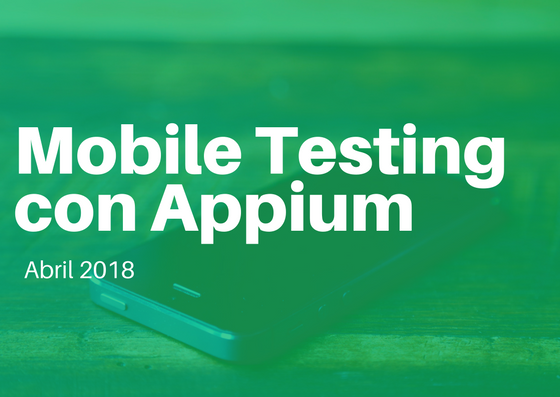
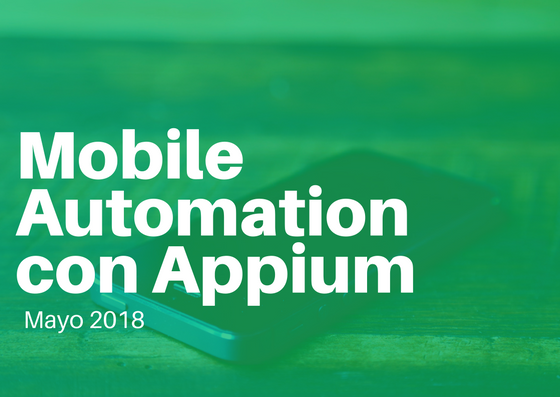
Appium course added

Changed region(s): [[0.0, 0.3023, 0.9107, 0.7859], [0.0304, 0.6348, 0.2429, 0.7557], [0.0304, 0.7859, 0.2732, 0.8463]]

diff --git a/MobileTesting.html b/MobileTesting.html
@@ -4,10 +4,10 @@
 <head>
     <meta charset="utf-8">
     <meta name="viewport" content="width=device-width, initial-scale=1">
-    <title>Testing en Esp - Introduccion Testing Automatizado</title>
-    <meta name="description" content="Introduccion Testing Automatizado con WebDriver">
+    <title>Testing en Esp - Mobile Automation con Appium</title>
+    <meta name="description" content="Mobile Automation con Appium">
     <meta name="keywords"
-          content="Testing, Automation, WebDriver, Selenium, Training, Cursos, tester, software, josepablosarco">
+          content="Testing, Automation, WebDriver, Selenium, Training, Cursos, tester, software, josepablosarco, mobile, appium">
 
     <link rel="stylesheet" type="text/css"
           href="https://fonts.googleapis.com/css?family=Open+Sans|Candal|Alegreya+Sans">
@@ -36,7 +36,6 @@
                 <li><a href="#feature">Acerca del Curso</a></li>
                 <li><a href="#contenido">Contenido</a></li>
                 <li><a href="#cuentaRegresiva">Proximo Encuentro</a></li>
-                <li><a href="#testimonios">Testimonios</a></li>
             </ul>
         </div>
     </div>
@@ -49,7 +48,7 @@
             <div class="row">
                 <div class="banner-text text-center">
                     <div class="text-border">
-                        <h2 class="text-dec">Introducción al Testing Automatizado Con WebDriver</h2>
+                        <h2 class="text-dec">Mobile Automation con Appium</h2>
                     </div>
                 </div>
                 <div class="columns" id="planes">
@@ -95,8 +94,11 @@
         <div class="row">
             <div class="header-section text-center">
                 <h2>Acerca del Curso</h2>
-                <p>Vas a poder aprender los distintos aspectos del testing automatizado.Conceptos teóricos necesarios para entender como y porque aplicarlo.<br>
-                También vas a poder conocer como aplicar Selenium como herramienta de Testing automatizado y realizar distintos ejercicios prácticos para aprender a interactuar con una aplicación de la manera mas eficiente. Por ultimo nos centraremos en WebDriver para poder aplicar lo aprendido  y poder realizar nuestros primeros tests en Java y Python!</p>
+                <p>En este curso vas a aprender a utilizar Appium para pruebas automatizadas sobre dispositivos mobiles. 
+				<br>Desde aprender a inspeccionar e interactuar con la aplicación, 
+				hasta escribir tu primer script de Appium para ejecútarlo localmente y en Sauce Labs. 
+				El curso incluye la creacion de un framework basico con Appium y entender cómo funciona Appium para hacer que las pruebas multiplataforma sean manejables y fáciles de llevar a cabo. 
+				Todo el curso es en Java.</p>
                 <hr class="bottom-line">
             </div>
             <div class="feature-info">
@@ -104,7 +106,7 @@
                     <div class="col-md-4" style="width:25%">
                         <div class="heading pull-right">
                             <h4>Destinatarios</h4>
-                            <p>Cualquier persona inetresada en el mundo IT. No es necesario saber programar o tener conocimientos previos en programación.</p>
+                            <p>Cualquier persona con conocimientos basicos en testing automatizado y programacion en Java(<a href="introduccionTestingAutomatizado.html">Introduccion testing automatizado con WebDriver</a>).</p>
                         </div>
                         <div class="fea-img pull-left">
                             <i class="fa fa-users"></i>
@@ -127,7 +129,7 @@
                     <div class="col-md-4" style="width:25%">
                         <div class="heading pull-right">
                             <h4>Codigo</h4>
-                            <p>Al finalizar el curso vas poder contar con todo el codigo Java y Python presentado durante el mismo.</p>
+                            <p>Al finalizar el curso vas poder contar con todo el codigo Java presentado durante el mismo.</p>
                         </div>
                         <div class="fea-img pull-left">
                             <i class="fa fa-github"></i>
@@ -175,13 +177,12 @@
                 <div id="collapseListGroup1" class="panel-collapse collapse" role="tabpanel"
                      aria-labelledby="collapseListGroupHeading1">
                     <ul class="list-group">
-                        <li class="list-group-item">¿Por qué testing Automatizado? ¿Por que no?</li>
-                        <li class="list-group-item">¿Que es testing Automatizado?</li>
-                        <li class="list-group-item">Testing Automatizado vs Testing Manual</li>
-                        <li class="list-group-item">Pirámide de Pruebas</li>
-                        <li class="list-group-item">¿Cómo seleccionar los tests a automatizar?</li>
-                        <li class="list-group-item">¿Cómo evitar el fracaso del proyecto de pruebas automatizadas?</li>
-                        <li class="list-group-item">Introducción al mundo Selenium</li>
+                        <li class="list-group-item">Conceptos Basicos sobre Appium</li>
+                        <li class="list-group-item">Tipos de pruebas en Appium</li>
+						<li class="list-group-item">Componentes de un test en Appium</li>
+						<li class="list-group-item">Appium Inspector</li>
+						<li class="list-group-item">Interacciones en Appium</li>
+                        <li class="list-group-item">Nuestro Primer Script con Appium</li>
                     </ul>
                 </div>
                 <div class="panel-heading" role="tab" id="collapseListGroupHeading2">
@@ -198,12 +199,13 @@
                 <div id="collapseListGroup2" class="panel-collapse collapse" role="tabpanel"
                      aria-labelledby="collapseListGroupHeading1">
                     <ul class="list-group">
-                        <li class="list-group-item">Conceptos generales</li>
-                        <li class="list-group-item">Test vs Test Suite</li>
-                        <li class="list-group-item">Teoría de Locators</li>
-                        <li class="list-group-item">Práctica de Locators</li>
-                        <li class="list-group-item">Frameworks de Automatización</li>
-                        <li class="list-group-item">Introducción Page Object</li>
+                        <li class="list-group-item">Estrategias para pruebas con Appium</li>
+                        <li class="list-group-item">Mejores Practicas con Appium</li>
+						<li class="list-group-item">Locators Avanzados</li>
+                        <li class="list-group-item">Interacciones avanzadas</li>
+                        <li class="list-group-item">Evitando tests inestables</li>
+                        <li class="list-group-item">Page Objects en Appium</li>
+                        <li class="list-group-item">Corriendo Pruebas en SauceLabs</li>
                     </ul>
                 </div>
                 <div class="panel-heading" role="tab" id="collapseListGroupHeading3">
@@ -308,50 +310,6 @@
     </div>
 </section>
 <!--/ work-shop-->
-<!--Faculity member-->
-<section id="testimonios" class="section-padding">
-    <div class="container">
-        <div class="row">
-            <div class="header-section text-center">
-                <h2>Testimonios</h2>
-                <p>A continuación algunas recomendaciones por parte de los que ya participaron.</p>
-                <hr class="bottom-line">
-            </div>
-            <div class="col-lg-4 col-md-4 col-sm-4">
-                <div class="pm-staff-profile-container">
-                    <div class="pm-staff-profile-details text-center">
-                        <p class="pm-staff-profile-name">German F.</p>
-                        <p class="pm-staff-profile-title">QA Manual</p>
-                        <i class="fa fa-quote-left fa-3x fa-pull-left" aria-hidden="true"></i>
-                        <p class="pm-staff-profile-bio">El curso me impresionó en múltiples niveles. Se lo recomendaré a todos los que conozco. Aprendi mucho durante este curso.</p>
-                    </div>
-                </div>
-            </div>
-            <div class="col-lg-4 col-md-4 col-sm-4">
-                <div class="pm-staff-profile-container">
-                    <div class="pm-staff-profile-details text-center">
-                        <p class="pm-staff-profile-name">Leonardo S.</p>
-                        <p class="pm-staff-profile-title">QA Lead</p>
-                        <i class="fa fa-quote-left fa-3x fa-pull-left" aria-hidden="true"></i>
-                        <p class="pm-staff-profile-bio">Me encantó el curso, es justo lo que estaba buscando.</p>
-                    </div>
-                </div>
-            </div>
-            <div class="col-lg-4 col-md-4 col-sm-4">
-                <div class="pm-staff-profile-container">
-                    <div class="pm-staff-profile-details text-center">
-                        <p class="pm-staff-profile-name">Matias R.</p>
-                        <p class="pm-staff-profile-title">QA Manual</p>
-
-                        <i class="fa fa-quote-left fa-3x fa-pull-left" aria-hidden="true"></i>
-                        <p class="pm-staff-profile-bio">Durante el encuentro OnLine pude obtener respuestas a dudas que tenia y el formato del curso me parecio muy interesante.</p>
-                    </div>
-                </div>
-            </div>
-        </div>
-    </div>
-</section>
-<!--/ Faculity member-->
 
 <!--Contact-->
 <section id="contact" class="section-padding">
@@ -365,7 +323,7 @@
             </div>
             <div id="sendmessage">Your message has been sent. Thank you!</div>
             <div id="errormessage"></div>
-            <form method="post" action="https://formspree.io/testingenesp+intro@gmail.com" role="form" class="contactForm">
+            <form method="post" action="https://formspree.io/testingenesp+appium@gmail.com" role="form" class="contactForm">
                 <div class="col-md-6 col-sm-6 col-xs-12 left">
                     <div class="form-group">
                         <input type="text" name="name" class="form-control form" id="name" placeholder="Nombre"

diff --git a/index.html b/index.html
@@ -110,8 +110,8 @@
           <figure class="imghvr-fold-up">
             <img src="img/WebDriver101.png" class="img-responsive">
             <figcaption>
-              <h3>Mi Primer Framework</h3>
-              <p>Lorem ipsum dolor sit amet, consectetur adipisicing elit. Magnam atque, nostrum veniam consequatur libero fugiat, similique quis.</p>
+              <h3>WebDriver 101</h3>
+              <p>En este curso nos enfocamos puramente en Selenium WebDriver.</p>
             </figcaption>
             <a href="#"></a>
           </figure>
@@ -120,8 +120,12 @@
           <figure class="imghvr-fold-up">
             <img src="img/MobileTesting.png" class="img-responsive">
             <figcaption>
-              <h3>Mobile Testing Con Appium</h3>
-              <p>Lorem ipsum dolor sit amet, consectetur adipisicing elit. Magnam atque, nostrum veniam consequatur libero fugiat, similique quis.</p>
+              <h3>Mobile Automation Con Appium</h3>
+              <p>En este curso vas a aprender a utilizar Appium para pruebas automatizadas sobre dispositivos mobiles. 
+				<br>Desde aprender a inspeccionar e interactuar con la aplicación, 
+				hasta escribir tu primer script de Appium para ejecútarlo localmente y en Sauce Labs. 
+				El curso incluye la creacion de un framework basico con Appium y entender cómo funciona Appium para hacer que las pruebas multiplataforma sean manejables y fáciles de llevar a cabo. 
+				Todo el curso es en Java.</p>
             </figcaption>
             <a href="#"></a>
           </figure>
